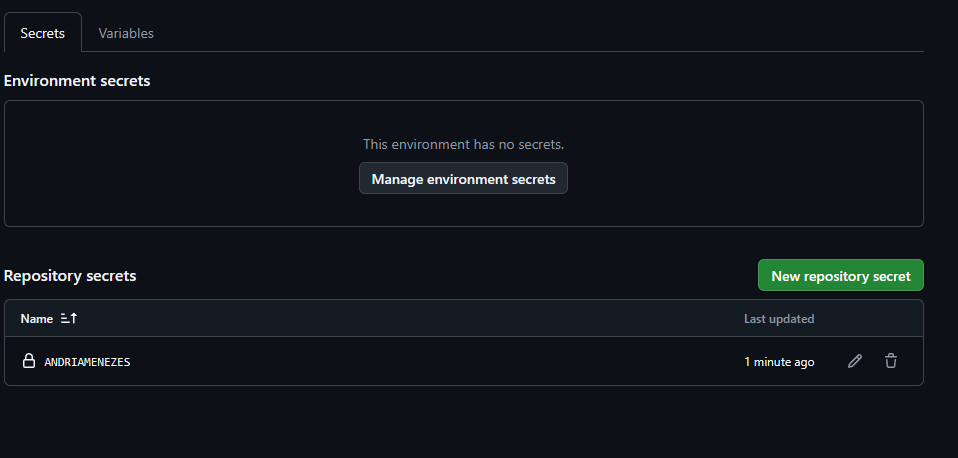
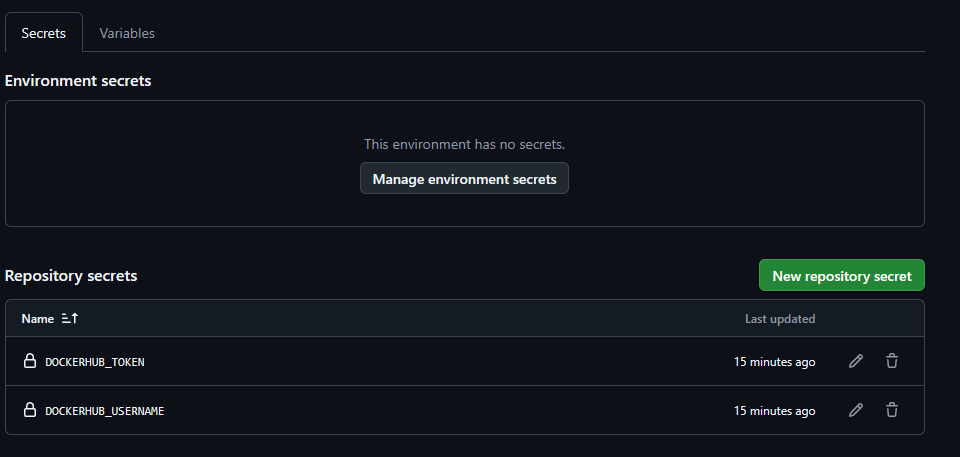
adicionando imagens e respostas

diff --git a/README.md b/README.md
@@ -215,16 +215,16 @@ Na hora de "Esperar a aplicação responder" em actions deu bug, falhando no ste
 
 **1. O que é o Docker Hub, na sua visão?**
 
-> (escreva sua resposta aqui)
+> É como um "GitHub", mas para imagens Docker em vez de código. É onde eu guardo a imagem já pronta da minha aplicação, e qualquer pessoa (ou qualquer servidor) pode baixar essa imagem com o comando `docker pull` e rodar ela sem precisar ter o código-fonte nem montar nada do zero.
 
 **2. Qual a diferença entre o CI (atividade anterior) e o CD (esta)?**
 
-> (escreva sua resposta aqui)
+> O CI é a parte que testa se o meu código está funcionando: toda vez que eu dou push, o GitHub sobe a aplicação, testa se ela responde e se o CRUD funciona. O CD é o próximo passo: depois que os testes passam, ele constrói a imagem final e já publica ela no Docker Hub automaticamente, sem eu precisar fazer isso na mão. Ou seja, o CI garante que o código está certo, e o CD entrega o resultado pronto para quem for usar.
 
 **3. Por que usamos um token e Secrets em vez de escrever o usuário e a senha no arquivo `cd.yml`?**
 
-> (escreva sua resposta aqui)
+> Porque o `cd.yml` fica dentro do repositório, e se o repositório é público, qualquer pessoa consegue ler esse arquivo. Se eu colocasse minha senha ali, todo mundo teria acesso à minha conta inteira do Docker Hub. Usando Secrets, o valor fica guardado de forma escondida dentro do GitHub, e o token é melhor que a senha porque ele só dá permissão para publicar imagens, e eu posso revogar ele quando quiser sem precisar trocar a senha da minha conta.
 
 **4. O que significa a tag `latest` no endereço da imagem?**
 
-> (escreva sua resposta aqui)
+> `latest` é o nome dado para a versão mais recente da imagem que eu publiquei. Toda vez que eu faço push para a `main`, o CD constrói uma imagem nova e ela substitui a que estava marcada como `latest`. Então quando alguém roda `docker pull usuario/imagem:latest`, sempre vai baixar a versão mais atual que eu publiquei, e não uma versão antiga fixa.
